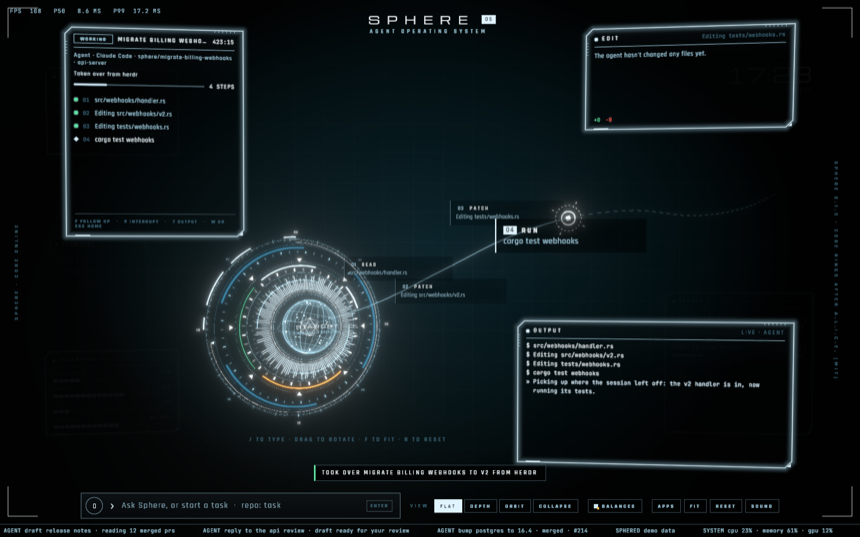
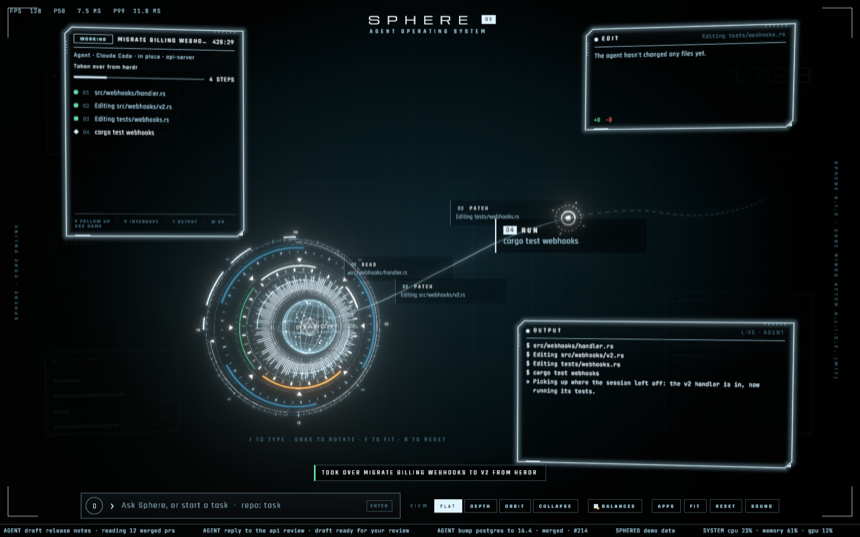
fix(sphere-app): the take-over demo task runs in place, with no branch
Claude-Session: https://claude.ai/code/session_01D2T5KbyM5LPZQtAcXu8Dxq

Changed region(s): [[0.0605, 0.0894, 0.2721, 0.2682]]

diff --git a/crates/sphere-app/src/takeover.rs b/crates/sphere-app/src/takeover.rs
@@ -960,7 +960,7 @@ fn demo_task(svc: &Service) -> (String, String) {
     use sphere_proto::{Event, EventBody, StepKind, TaskView};
     let t: TaskView = serde_json::from_value(serde_json::json!({
         "id": "t-takeover", "title": "Migrate billing webhooks to v2", "prompt": "", "state": "working", "status": "Running the webhook tests",
-        "repo": "/demo/api-server", "branch": "sphere/migrate-billing-webhooks", "in_place": true, "budget_usd": 5.0, "cost_usd": 0.84,
+        "repo": "/demo/api-server", "in_place": true, "budget_usd": 5.0, "cost_usd": 0.84,
         "started_at": "2026-10-19T09:20:00Z", "updated_at": "2026-10-19T09:44:00Z", "steps": 5,
     }))
     .expect("demo task");
